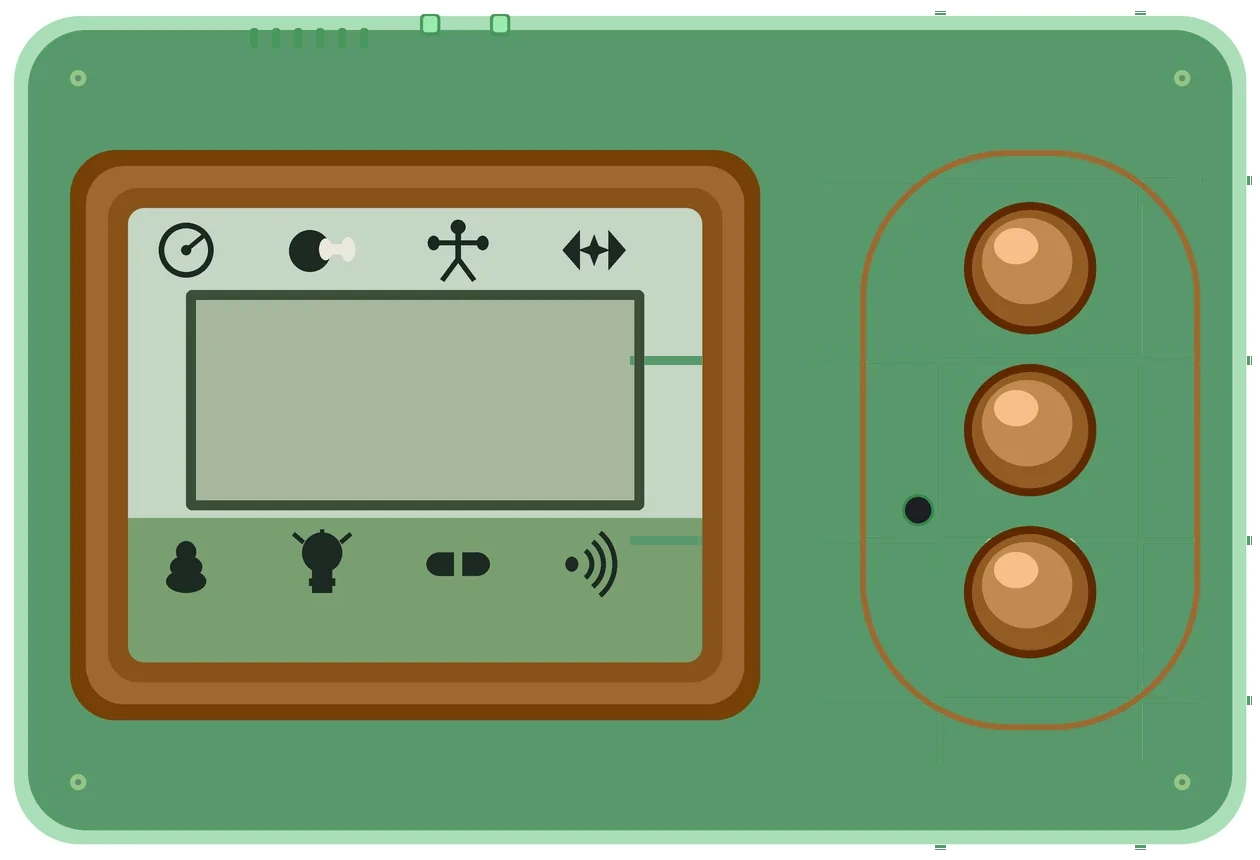
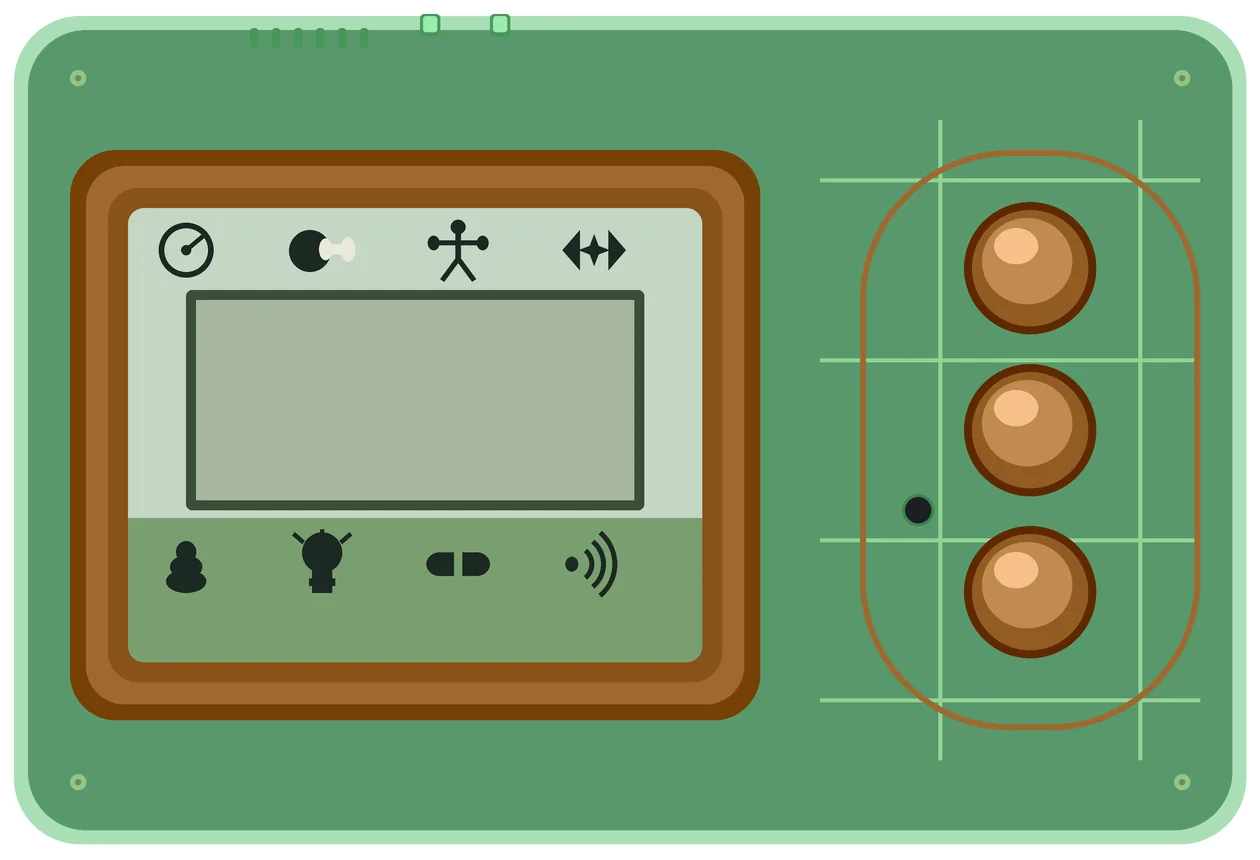
Restore the clear Pendulum shells so the circuit board shows through again.

diff --git a/tests/offline-clock.test.js b/tests/offline-clock.test.js
@@ -23,7 +23,7 @@ const html = fs.readFileSync(path.join(ROOT, 'index.html'), 'utf8');
 const manifest = JSON.parse(fs.readFileSync(path.join(ROOT, 'manifest.json'), 'utf8'));
 const block = sw.slice(sw.indexOf('var ASSETS = ['), sw.indexOf('];', sw.indexOf('var ASSETS = [')));
 const assets = new Set((block.match(/'([^']+)'/g) || []).map((s) => s.slice(1, -1)));
-eq((sw.match(/var CACHE = '([^']+)'/) || [])[1], 'digivice-v83', 'cache name bumped to digivice-v83');
+eq((sw.match(/var CACHE = '([^']+)'/) || [])[1], 'digivice-v84', 'cache name bumped to digivice-v84');
 const refs = [];
 html.replace(/(?:src|href)="(\.\/[^"#?]+)"/g, (m, u) => { refs.push(u); return m; });
 ok(refs.length > 40, 'index.html local refs parsed (' + refs.length + ')');

diff --git a/sw.js b/sw.js
@@ -1,4 +1,4 @@
-/* Offline cache for 數碼怪獸對打機 — v83 (point-five shells drop the construction grid)
+/* Offline cache for 數碼怪獸對打機 — v84 (clear Pendulum shells show the board again)
  * - Precaches every file index.html loads plus ALL device shells (WebP,
  *   ~2.4 MB), so any device works on an offline first launch.
  * - Precache requests bypass the HTTP cache (cache: 'reload'), so a new
@@ -9,7 +9,7 @@
  * - Only same-origin, non-redirected, 200 'basic' responses are cached.
  * - Old caches are deleted only after the new one is complete.
  */
-var CACHE = 'digivice-v83';
+var CACHE = 'digivice-v84';
 var APP_SHELL = './index.html';
 var ASSETS = [
   './',
